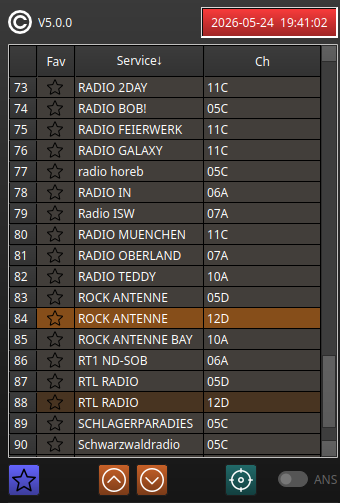
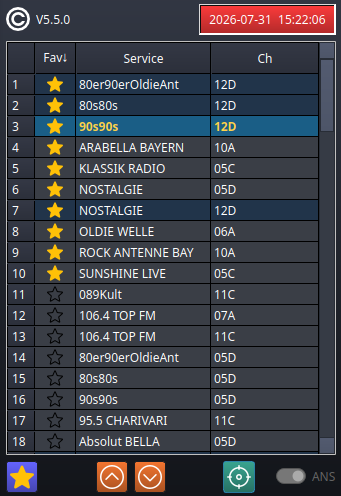
Update README with revised service selector details

diff --git a/README.md b/README.md
@@ -244,13 +244,12 @@ folder `~/.config/dabstar`.
 
 ![](./res/for_readme/service-selector.png)
 
-The current selected service is shown with an orange background.
-With the brown colored entries, you will find other services from the same channel (here 12D).
+The current selected service is shown with a light blue background and bold yellow text.
+With the dark blue colored entries, you will find other services from the same channel (here 12D).
 When you click on such services the switching time is quite short.
 
 The services with a gray background are from another channel.
 Selecting this will take a bit longer time (about 3 seconds) till audio comes up.
-Note: Not each service entry has audio, especially that with SPI and EPG in its name.
 
 ### Favorites
 
@@ -271,7 +270,7 @@ Change the sorting of the list if you only want mainly to step within the favori
 
 ### Target Button
 
-If you "lose" the orange current service selection you can click this button ![](./res/for_readme/target-button.png).
+If you "lose" the current service selection you can click this button ![](./res/for_readme/target-button.png).
 The current service will be shown in the list center (if possible).
 
 ### ANS (Automatic Next Service)
